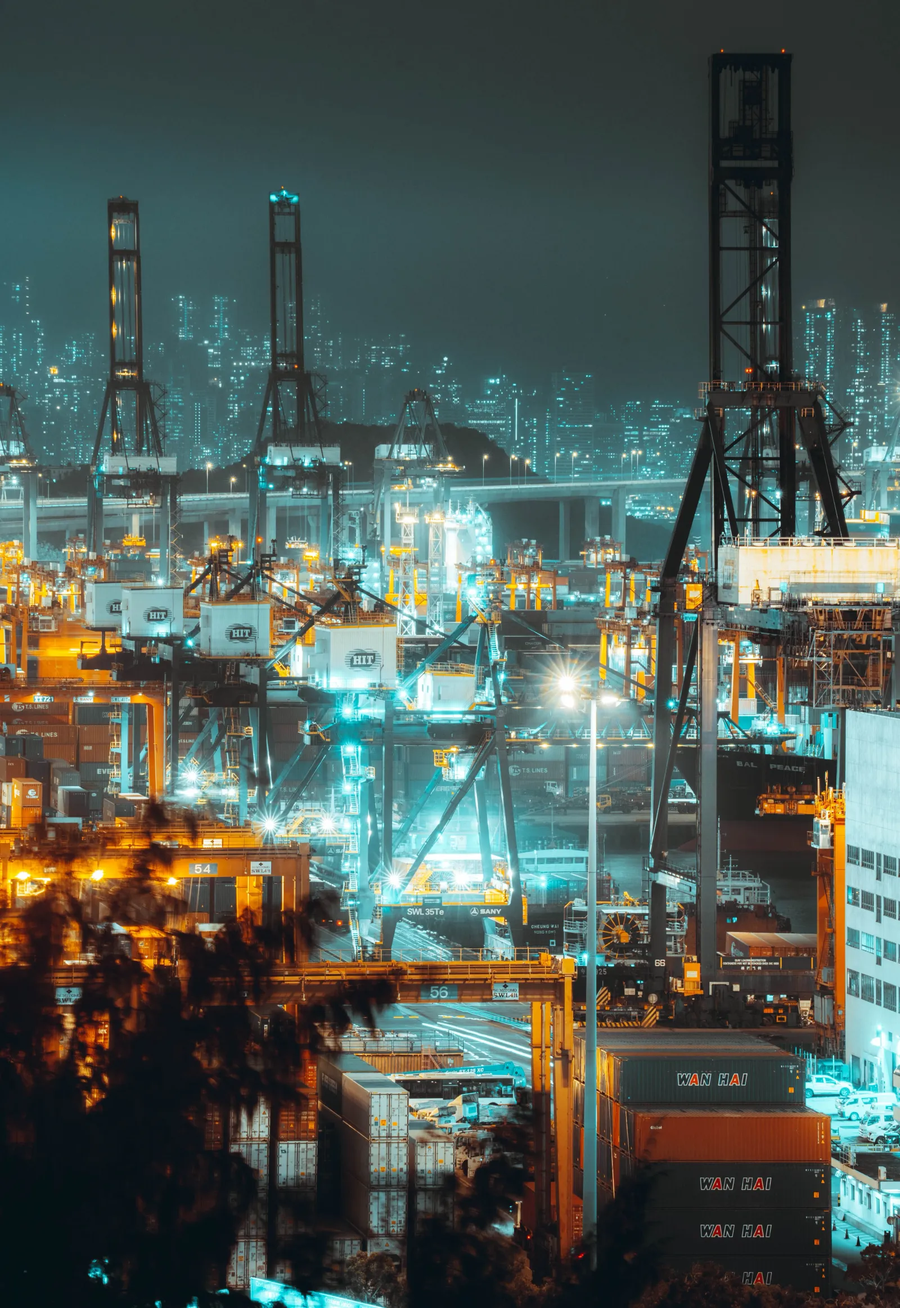
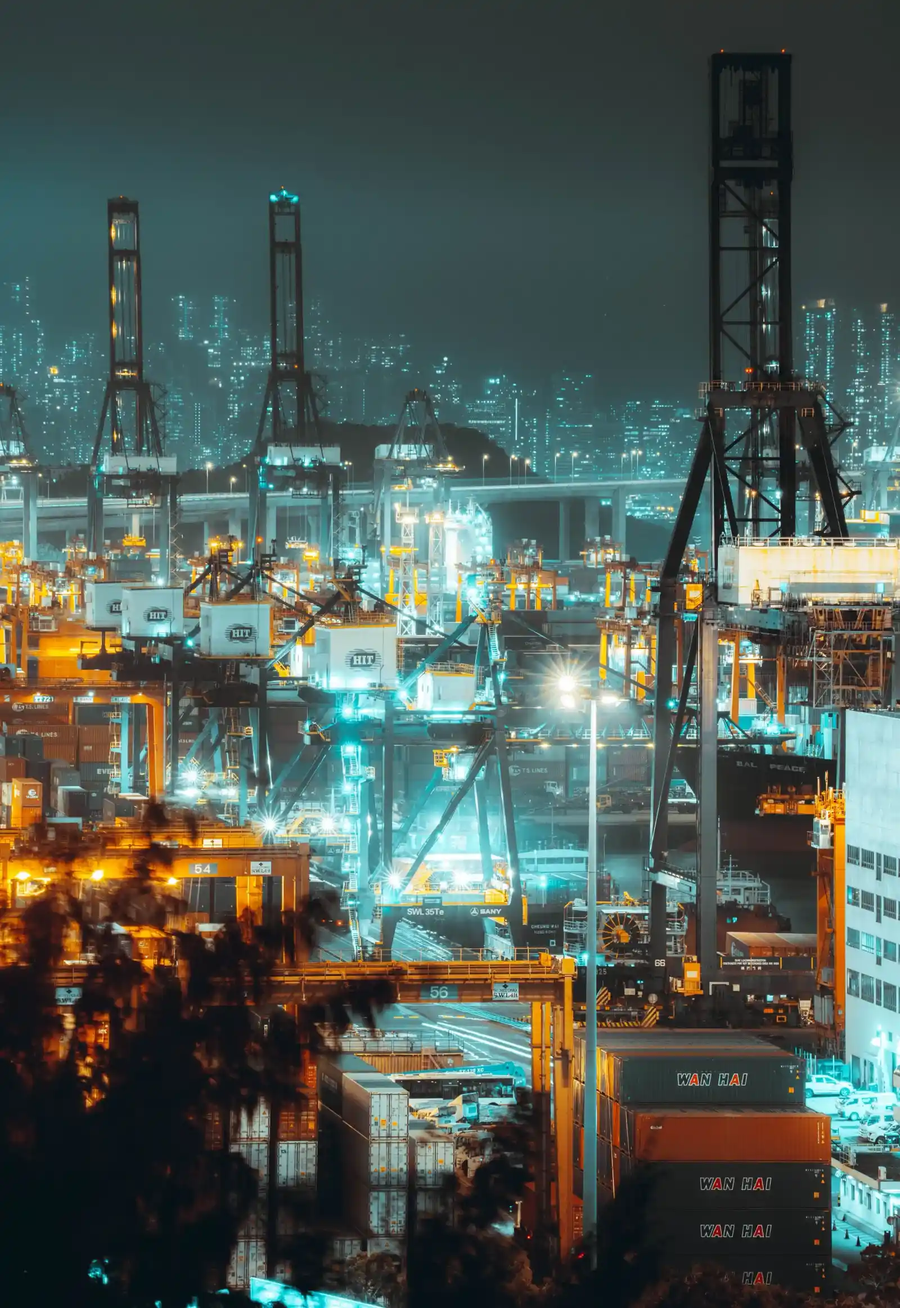
minor changes

diff --git a/src/components/Header.tsx b/src/components/Header.tsx
@@ -148,6 +148,20 @@ useEffect(() => {
                   onMouseLeave={() => setNavbarServicesOpen(false)}
                   className="absolute left-0 mt-0 w-64 bg-white rounded-md shadow-lg py-2 border border-gray-100"
                 >
+                   <Link
+                    to="/industries/cold_chain/"
+                    onClick={() => setNavbarIndustriesOpen(false) }
+                    className="block w-full text-left px-4 py-2.5 font-generalsans font-regular text-sm text-[#031926] hover:bg-gray-50 hover:text-[#468189] transition-colors"
+                  >
+                    {TEXT.industriesDropdown.coldchain}
+                  </Link>
+                  <Link
+                    to="/services/warehousing/"
+                    onClick={() => setNavbarServicesOpen(false)}
+                    className="block w-full text-left px-4 py-2.5 font-generalsans font-regular text-sm text-[#031926] hover:bg-gray-50 hover:text-[#468189] transition-colors"
+                  >
+                    {TEXT.servicesDropdown.contractWarehousing}
+                  </Link>
                   <Link
                     to="/services/impo-expo/"
                     onClick={() => setNavbarServicesOpen(false)}
@@ -170,25 +184,11 @@ useEffect(() => {
                     {TEXT.servicesDropdown.frieghtforwarding}
                   </Link>
                   <Link
-                    to="/services/distribution/"
+                    to="/services/Supply_chain/"
                     onClick={() => setNavbarServicesOpen(false)}
                     className="block w-full text-left px-4 py-2.5 font-generalsans font-regular text-sm text-[#031926] hover:bg-gray-50 hover:text-[#468189] transition-colors"
                   >
-                    {TEXT.servicesDropdown.distribution}
-                  </Link>
-                  <Link
-                    to="/industries/cold_chain/"
-                    onClick={() => setNavbarIndustriesOpen(false) }
-                    className="block w-full text-left px-4 py-2.5 font-generalsans font-regular text-sm text-[#031926] hover:bg-gray-50 hover:text-[#468189] transition-colors"
-                  >
-                    {TEXT.industriesDropdown.coldchain}
-                  </Link>
-                  <Link
-                    to="/services/warehousing/"
-                    onClick={() => setNavbarServicesOpen(false)}
-                    className="block w-full text-left px-4 py-2.5 font-generalsans font-regular text-sm text-[#031926] hover:bg-gray-50 hover:text-[#468189] transition-colors"
-                  >
-                    {TEXT.servicesDropdown.contractWarehousing}
+                    {TEXT.servicesDropdown.scc}
                   </Link>
                   <Link
                     to="/services/TCL/"
@@ -198,11 +198,11 @@ useEffect(() => {
                     {TEXT.servicesDropdown.tcl}
                   </Link>
                   <Link
-                    to="/services/Supply_chain/"
+                    to="/services/distribution/"
                     onClick={() => setNavbarServicesOpen(false)}
                     className="block w-full text-left px-4 py-2.5 font-generalsans font-regular text-sm text-[#031926] hover:bg-gray-50 hover:text-[#468189] transition-colors"
                   >
-                    {TEXT.servicesDropdown.scc}
+                    {TEXT.servicesDropdown.distribution}
                   </Link>
                   <Link
                     to="/services/customs/"
@@ -247,7 +247,7 @@ useEffect(() => {
                     {TEXT.industriesDropdown.horeca}
                   </Link>
                   <Link
-                    to="/industries/fmcg/"
+                    to="/industries/fmcg_industry/"
                     onClick={() => setNavbarIndustriesOpen(false)}
                     className="block w-full text-left px-4 py-2.5 font-generalsans font-regular text-sm text-[#031926] hover:bg-gray-50 hover:text-[#468189] transition-colors"
                   >
@@ -393,7 +393,7 @@ exit={{
      <Link to="/industries/horeca/" onClick={() => setIsMenuOpen(false)} className="text-[#F5FBEF] font-generalsans text-left">
       {TEXT.industriesDropdown.horeca}
     </Link>
-    <Link to="/industries/fmcg/" onClick={() => setIsMenuOpen(false)} className="text-[#F5FBEF] font-generalsans text-left">
+    <Link to="/industries/fmcg_industry/" onClick={() => setIsMenuOpen(false)} className="text-[#F5FBEF] font-generalsans text-left">
       {TEXT.industriesDropdown.fmcg}
     </Link>
     <Link to="/industries/e_commerce/" onClick={() => setIsMenuOpen(false)} className="text-[#F5FBEF] font-generalsans text-left">

diff --git a/index.html b/index.html
@@ -3,11 +3,6 @@
   <head>
     <meta charset="UTF-8" />
     <title>Global Logistics Solutions for Businesses | SAUDEX GLOBAL</title>
-    <meta
-    name="description"
-    content="Discover global logistics solutions from SAUDEX GLOBAL, combining reliable freight, supply chain expertise and international operations."
-    />
-    <link rel="canonical" href="https://saudexglobal.com/">
     <link rel="icon" type="image/svg+xml" href="/favicon.svg">
     <meta name="viewport" content="width=device-width, initial-scale=1.0" />
     <meta name="keywords" content="global logistics solutions, SAUDEX GLOBAL, freight forwarding, supply chain solutions, import export logistics, international logistics">

diff --git a/src/components/Home.tsx b/src/components/Home.tsx
@@ -96,6 +96,7 @@ export default function Hero() {
             transition={{ duration: 0.8 }}
           >
             <SplitText
+            tag="h1"
             aria-label="Logistics Made simple"
   text={TEXT.hero.headline}
   className="
